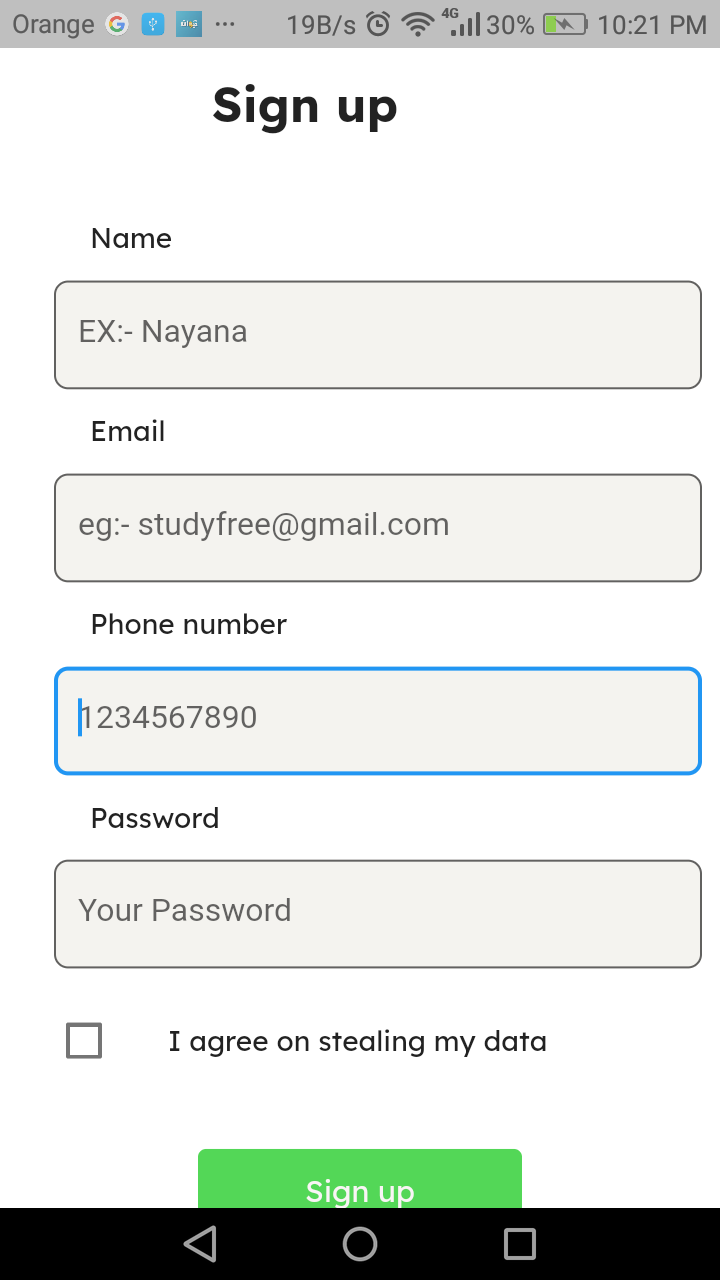
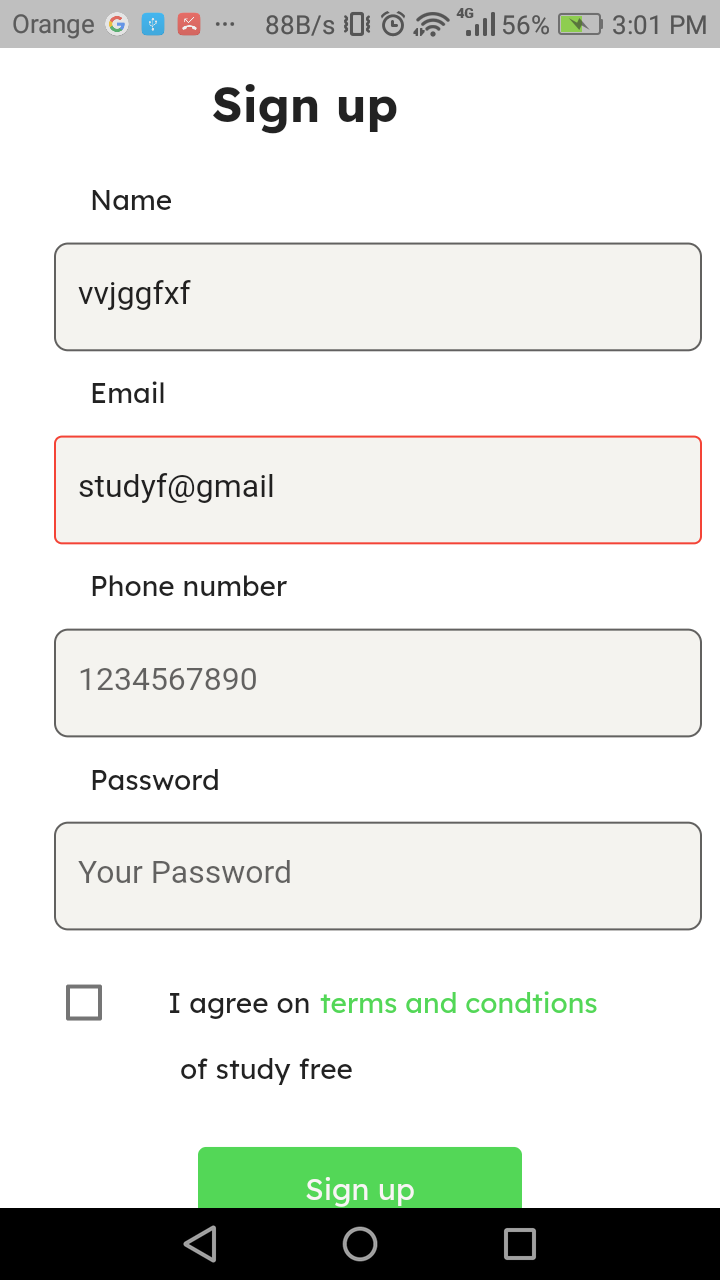
added error handling

diff --git a/lib/Presentation/Pages/signup_page.dart b/lib/Presentation/Pages/signup_page.dart
@@ -1,8 +1,11 @@
 import 'package:careerark/Presentation/Widgets/GoogleSignupbutton.dart';
+import 'package:careerark/Presentation/Widgets/emailtextfield.dart';
+import 'package:careerark/Presentation/Widgets/numbertextfield.dart';
 import 'package:careerark/Presentation/Widgets/signupbutton.dart';
 import 'package:careerark/Presentation/Widgets/SignupCheckbox.dart';
 import 'package:careerark/Presentation/utils/Theme.dart';
 import 'package:careerark/Presentation/utils/consts.dart';
+import 'package:careerark/Presentation/utils/global.dart';
 import 'package:flutter/material.dart';
 
 class Signuppage extends StatefulWidget {
@@ -14,17 +17,10 @@ class Signuppage extends StatefulWidget {
 
 class _SignuppageState extends State<Signuppage> {
   bool is_checked = false;
-  late TextEditingController nameC;
-  late TextEditingController emailC;
 
-  late TextEditingController passwordC;
-
-  late TextEditingController nbphoneC;
   @override
   void initState() {
-    emailC = TextEditingController();
     nameC = TextEditingController();
-    nbphoneC = TextEditingController();
     passwordC = TextEditingController();
     super.initState();
   }
@@ -92,24 +88,7 @@ class _SignuppageState extends State<Signuppage> {
             SizedBox(
               height: Screenlength * 0.02,
             ),
-            Padding(
-              padding: EdgeInsets.only(left: Screenwidth * 0.05),
-              child: Container(
-                height: Screenlength * 0.09,
-                child: TextField(
-                    controller: emailC,
-                    decoration: InputDecoration(
-                        focusedBorder: OutlineInputBorder(
-                            borderSide: BorderSide(color: Colors.black)),
-                        filled: true,
-                        fillColor: Color.fromARGB(255, 244, 243, 239),
-                        hintText: "eg:- studyfree@gmail.com",
-                        border: OutlineInputBorder(
-                          borderRadius: BorderRadius.all(Radius.circular(7)),
-                        ))),
-                width: Screenwidth * 0.9,
-              ),
-            ),
+            const Emailtextfield(),
             SizedBox(
               height: Screenlength * 0.02,
             ),
@@ -123,25 +102,7 @@ class _SignuppageState extends State<Signuppage> {
             SizedBox(
               height: Screenlength * 0.02,
             ),
-            Padding(
-              padding: EdgeInsets.only(left: Screenwidth * 0.05),
-              child: Container(
-                height: Screenlength * 0.09,
-                child: TextField(
-                    controller: nbphoneC,
-                    keyboardType: TextInputType.number,
-                    decoration: InputDecoration(
-                        focusedBorder: OutlineInputBorder(
-                            borderSide: BorderSide(color: Colors.black)),
-                        filled: true,
-                        fillColor: Color.fromARGB(255, 244, 243, 239),
-                        hintText: "1234567890",
-                        border: OutlineInputBorder(
-                          borderRadius: BorderRadius.all(Radius.circular(7)),
-                        ))),
-                width: Screenwidth * 0.9,
-              ),
-            ),
+            const PhoneNumbertextfield(),
             SizedBox(
               height: Screenlength * 0.02,
             ),
@@ -188,17 +149,44 @@ class _SignuppageState extends State<Signuppage> {
                 ),
                 Container(
                   width: Screenwidth * 0.7,
-                  child: Text(
-                    "I agree on stealing my data",
-                    style: myTheme.textTheme.bodyText1,
+                  child: Row(
+                    children: [
+                      Text(
+                        "I agree on ",
+                        style: myTheme.textTheme.bodyText1,
+                      ),
+                      GestureDetector(
+                        onTap: () {
+                          print("terms and condtions");
+                        },
+                        child: Text(
+                          "terms and condtions",
+                          style: myTheme.textTheme.headline5,
+                        ),
+                      ),
+                    ],
                   ),
                 )
+              ],
+            ),
+            Row(
+              children: [
+                SizedBox(
+                  width: Screenwidth * 0.25,
+                ),
+                Container(
+                  width: Screenwidth * 0.7,
+                  child: Text(
+                    "of study free",
+                    style: myTheme.textTheme.bodyText1,
+                  ),
+                ),
               ],
             ),
             SizedBox(
               height: Screenlength * 0.05,
             ),
-            Signupbutton(),
+            const Signupbutton(),
             SizedBox(
               height: Screenlength * 0.05,
             ),
@@ -209,7 +197,7 @@ class _SignuppageState extends State<Signuppage> {
                 ),
                 Container(
                   width: Screenwidth * 0.25,
-                  child: Divider(
+                  child: const Divider(
                     color: Colors.black,
                     thickness: 0.5,
                   ),
@@ -223,7 +211,7 @@ class _SignuppageState extends State<Signuppage> {
                 ),
                 Container(
                   width: Screenwidth * 0.25,
-                  child: Divider(
+                  child: const Divider(
                     color: Colors.black,
                     thickness: 0.5,
                   ),
@@ -233,7 +221,10 @@ class _SignuppageState extends State<Signuppage> {
             SizedBox(
               height: Screenlength * 0.05,
             ),
-            GoogleSignupButton()
+            GoogleSignupButton(),
+            SizedBox(
+              height: Screenlength * 0.1,
+            )
           ],
         ),
       ),

diff --git a/lib/Presentation/Widgets/numbertextfield.dart b/lib/Presentation/Widgets/numbertextfield.dart
@@ -1,0 +1,54 @@
+import 'package:careerark/Presentation/utils/consts.dart';
+import 'package:careerark/Presentation/utils/global.dart';
+import 'package:careerark/Presentation/utils/useful%20functions.dart';
+import 'package:flutter/material.dart';
+
+class PhoneNumbertextfield extends StatefulWidget {
+  const PhoneNumbertextfield({super.key});
+
+  @override
+  State<PhoneNumbertextfield> createState() => _PhoneNumbertextfieldState();
+}
+
+class _PhoneNumbertextfieldState extends State<PhoneNumbertextfield> {
+  late TextEditingController nbphoneC;
+  Color bordercolor = Colors.black;
+  @override
+  void initState() {
+    nbphoneC = TextEditingController();
+  }
+
+  @override
+  Widget build(BuildContext context) {
+    nbphoneC.addListener(() {
+      setState(() {
+        if (!isNumber(nbphoneC.text) || nbphoneC.text.length != 10) {
+          bordercolor = Colors.red;
+          phonenumber = -1;
+        } else {
+          phonenumber = int.parse(nbphoneC.text);
+          bordercolor = Colors.black;
+        }
+      });
+    });
+    return Padding(
+      padding: EdgeInsets.only(left: Screenwidth * 0.05),
+      child: Container(
+        height: Screenlength * 0.09,
+        child: TextField(
+            controller: nbphoneC,
+            keyboardType: TextInputType.number,
+            decoration: InputDecoration(
+                focusedBorder: OutlineInputBorder(
+                    borderSide: BorderSide(color: bordercolor)),
+                filled: true,
+                fillColor: Color.fromARGB(255, 244, 243, 239),
+                hintText: "1234567890",
+                border: OutlineInputBorder(
+                  borderRadius: BorderRadius.all(Radius.circular(7)),
+                ))),
+        width: Screenwidth * 0.9,
+      ),
+    );
+  }
+}

diff --git a/lib/Presentation/Widgets/emailtextfield.dart b/lib/Presentation/Widgets/emailtextfield.dart
@@ -1,0 +1,56 @@
+import 'package:careerark/Presentation/utils/consts.dart';
+import 'package:careerark/Presentation/utils/global.dart';
+import 'package:careerark/Presentation/utils/useful%20functions.dart';
+import 'package:flutter/material.dart';
+
+class Emailtextfield extends StatefulWidget {
+  const Emailtextfield({super.key});
+
+  @override
+  State<Emailtextfield> createState() => _EmailtextfieldState();
+}
+
+class _EmailtextfieldState extends State<Emailtextfield> {
+  late TextEditingController emailC;
+  Color bordercolor = Colors.black;
+  @override
+  void initState() {
+    emailC = TextEditingController();
+    super.initState();
+  }
+
+  @override
+  Widget build(BuildContext context) {
+    emailC.addListener(() {
+      setState(() {
+        print(email);
+        if (!isEmail(emailC.text)) {
+          bordercolor = Colors.red;
+          email = "";
+        } else {
+          email = emailC.text;
+
+          bordercolor = Colors.black;
+        }
+      });
+    });
+    return Padding(
+      padding: EdgeInsets.only(left: Screenwidth * 0.05),
+      child: Container(
+        height: Screenlength * 0.09,
+        child: TextField(
+            controller: emailC,
+            decoration: InputDecoration(
+                focusedBorder: OutlineInputBorder(
+                    borderSide: BorderSide(color: bordercolor)),
+                filled: true,
+                fillColor: Color.fromARGB(255, 244, 243, 239),
+                hintText: "eg:- studyfree@gmail.com",
+                border: OutlineInputBorder(
+                  borderRadius: BorderRadius.all(Radius.circular(7)),
+                ))),
+        width: Screenwidth * 0.9,
+      ),
+    );
+  }
+}

diff --git a/lib/Presentation/Widgets/GoogleSignupbutton.dart b/lib/Presentation/Widgets/GoogleSignupbutton.dart
@@ -1,6 +1,6 @@
 import 'package:careerark/Presentation/utils/Theme.dart';
+import 'package:careerark/Presentation/utils/consts.dart';
 import 'package:flutter/material.dart';
-import 'package:flutter_svg/flutter_svg.dart';
 
 class GoogleSignupButton extends StatelessWidget {
   @override
@@ -9,17 +9,16 @@ class GoogleSignupButton extends StatelessWidget {
       onPressed: () {
         print('Sign up with Google pressed');
       },
-      icon: SvgPicture.asset(
-        'assets/google_icon.svg',
-        height: 24.0,
-        width: 24.0,
+      icon: Image.asset(
+        "assets/google_icon.png",
+        width: Screenwidth * 0.1,
       ),
       label: Text(
         'Sign up with Google',
-        style: myTheme.textTheme.bodyText1,
+        style: myTheme.textTheme.headline4,
       ),
       style: ElevatedButton.styleFrom(
-        primary: Colors.red, // Change the button color as needed
+        primary: Colors.white, // Change the button color as needed
       ),
     );
   }

diff --git a/lib/Presentation/Widgets/signupbutton.dart b/lib/Presentation/Widgets/signupbutton.dart
@@ -1,9 +1,13 @@
+import 'package:careerark/Presentation/Widgets/emailtextfield.dart';
 import 'package:careerark/Presentation/utils/Theme.dart';
 import 'package:careerark/Presentation/utils/consts.dart';
+import 'package:careerark/Presentation/utils/global.dart';
 import 'package:flutter/material.dart';
 
 class Signupbutton extends StatefulWidget {
-  const Signupbutton({super.key});
+  const Signupbutton({
+    super.key,
+  });
 
   @override
   State<Signupbutton> createState() => _SignupbuttonState();
@@ -17,7 +21,9 @@ class _SignupbuttonState extends State<Signupbutton> {
       height: Screenlength * 0.07,
       child: TextButton(
           style: myTheme.textButtonTheme.style,
-          onPressed: () {},
+          onPressed: () {
+            print(email);
+          },
           child: Text("Sign up", style: myTheme.textTheme.bodyText2)),
     );
   }

diff --git a/lib/Presentation/utils/Theme.dart b/lib/Presentation/utils/Theme.dart
@@ -2,6 +2,9 @@ import 'package:flutter/material.dart';
 import 'package:google_fonts/google_fonts.dart';
 
 final ThemeData myTheme = ThemeData(
+  checkboxTheme: CheckboxThemeData(
+      fillColor: MaterialStateProperty.resolveWith((states) =>
+          (states.isEmpty) ? Colors.white : Color.fromARGB(255, 63, 207, 68))),
   textButtonTheme: TextButtonThemeData(
       style: ButtonStyle(
     backgroundColor: MaterialStateColor.resolveWith(
@@ -13,6 +16,8 @@ final ThemeData myTheme = ThemeData(
         fontWeight: FontWeight.bold,
       ),
       bodyText1: GoogleFonts.lexend(),
+      headline4: GoogleFonts.lexend(),
+      headline5: GoogleFonts.lexend(color: Color.fromARGB(255, 83, 215, 87)),
       bodyText2: GoogleFonts.lexend(
           color: Color.fromARGB(255, 249, 245, 245), fontSize: 15),
       button: GoogleFonts.lexend()),

diff --git a/lib/Presentation/Widgets/SignupCheckbox.dart b/lib/Presentation/Widgets/SignupCheckbox.dart
@@ -1,3 +1,4 @@
+import 'package:careerark/Presentation/utils/Theme.dart';
 import 'package:flutter/material.dart';
 
 class Signupcheckbox extends StatefulWidget {
@@ -18,11 +19,6 @@ class _SignupcheckboxState extends State<Signupcheckbox> {
             is_checked = value!;
           });
         },
-        fillColor: MaterialStateColor.resolveWith((states) {
-          if (states.isEmpty) {
-            return Colors.white;
-          }
-          return const Color.fromARGB(255, 71, 240, 77);
-        }));
+        fillColor: myTheme.checkboxTheme.fillColor);
   }
 }

diff --git a/lib/Presentation/utils/useful functions.dart b/lib/Presentation/utils/useful functions.dart
@@ -1,0 +1,9 @@
+bool isEmail(String input) {
+  final RegExp emailRegex = RegExp(r'^[\w-\.]+@([\w-]+\.)+[\w-]{2,4}$');
+  return emailRegex.hasMatch(input);
+}
+
+bool isNumber(String input) {
+  final RegExp numberRegex = RegExp(r'^-?\d*\.?\d+$');
+  return numberRegex.hasMatch(input);
+}

diff --git a/lib/Presentation/utils/global.dart b/lib/Presentation/utils/global.dart
@@ -1,0 +1,7 @@
+import 'package:flutter/material.dart';
+
+String email = "";
+int phonenumber = -1;
+late TextEditingController nameC;
+
+late TextEditingController passwordC;
